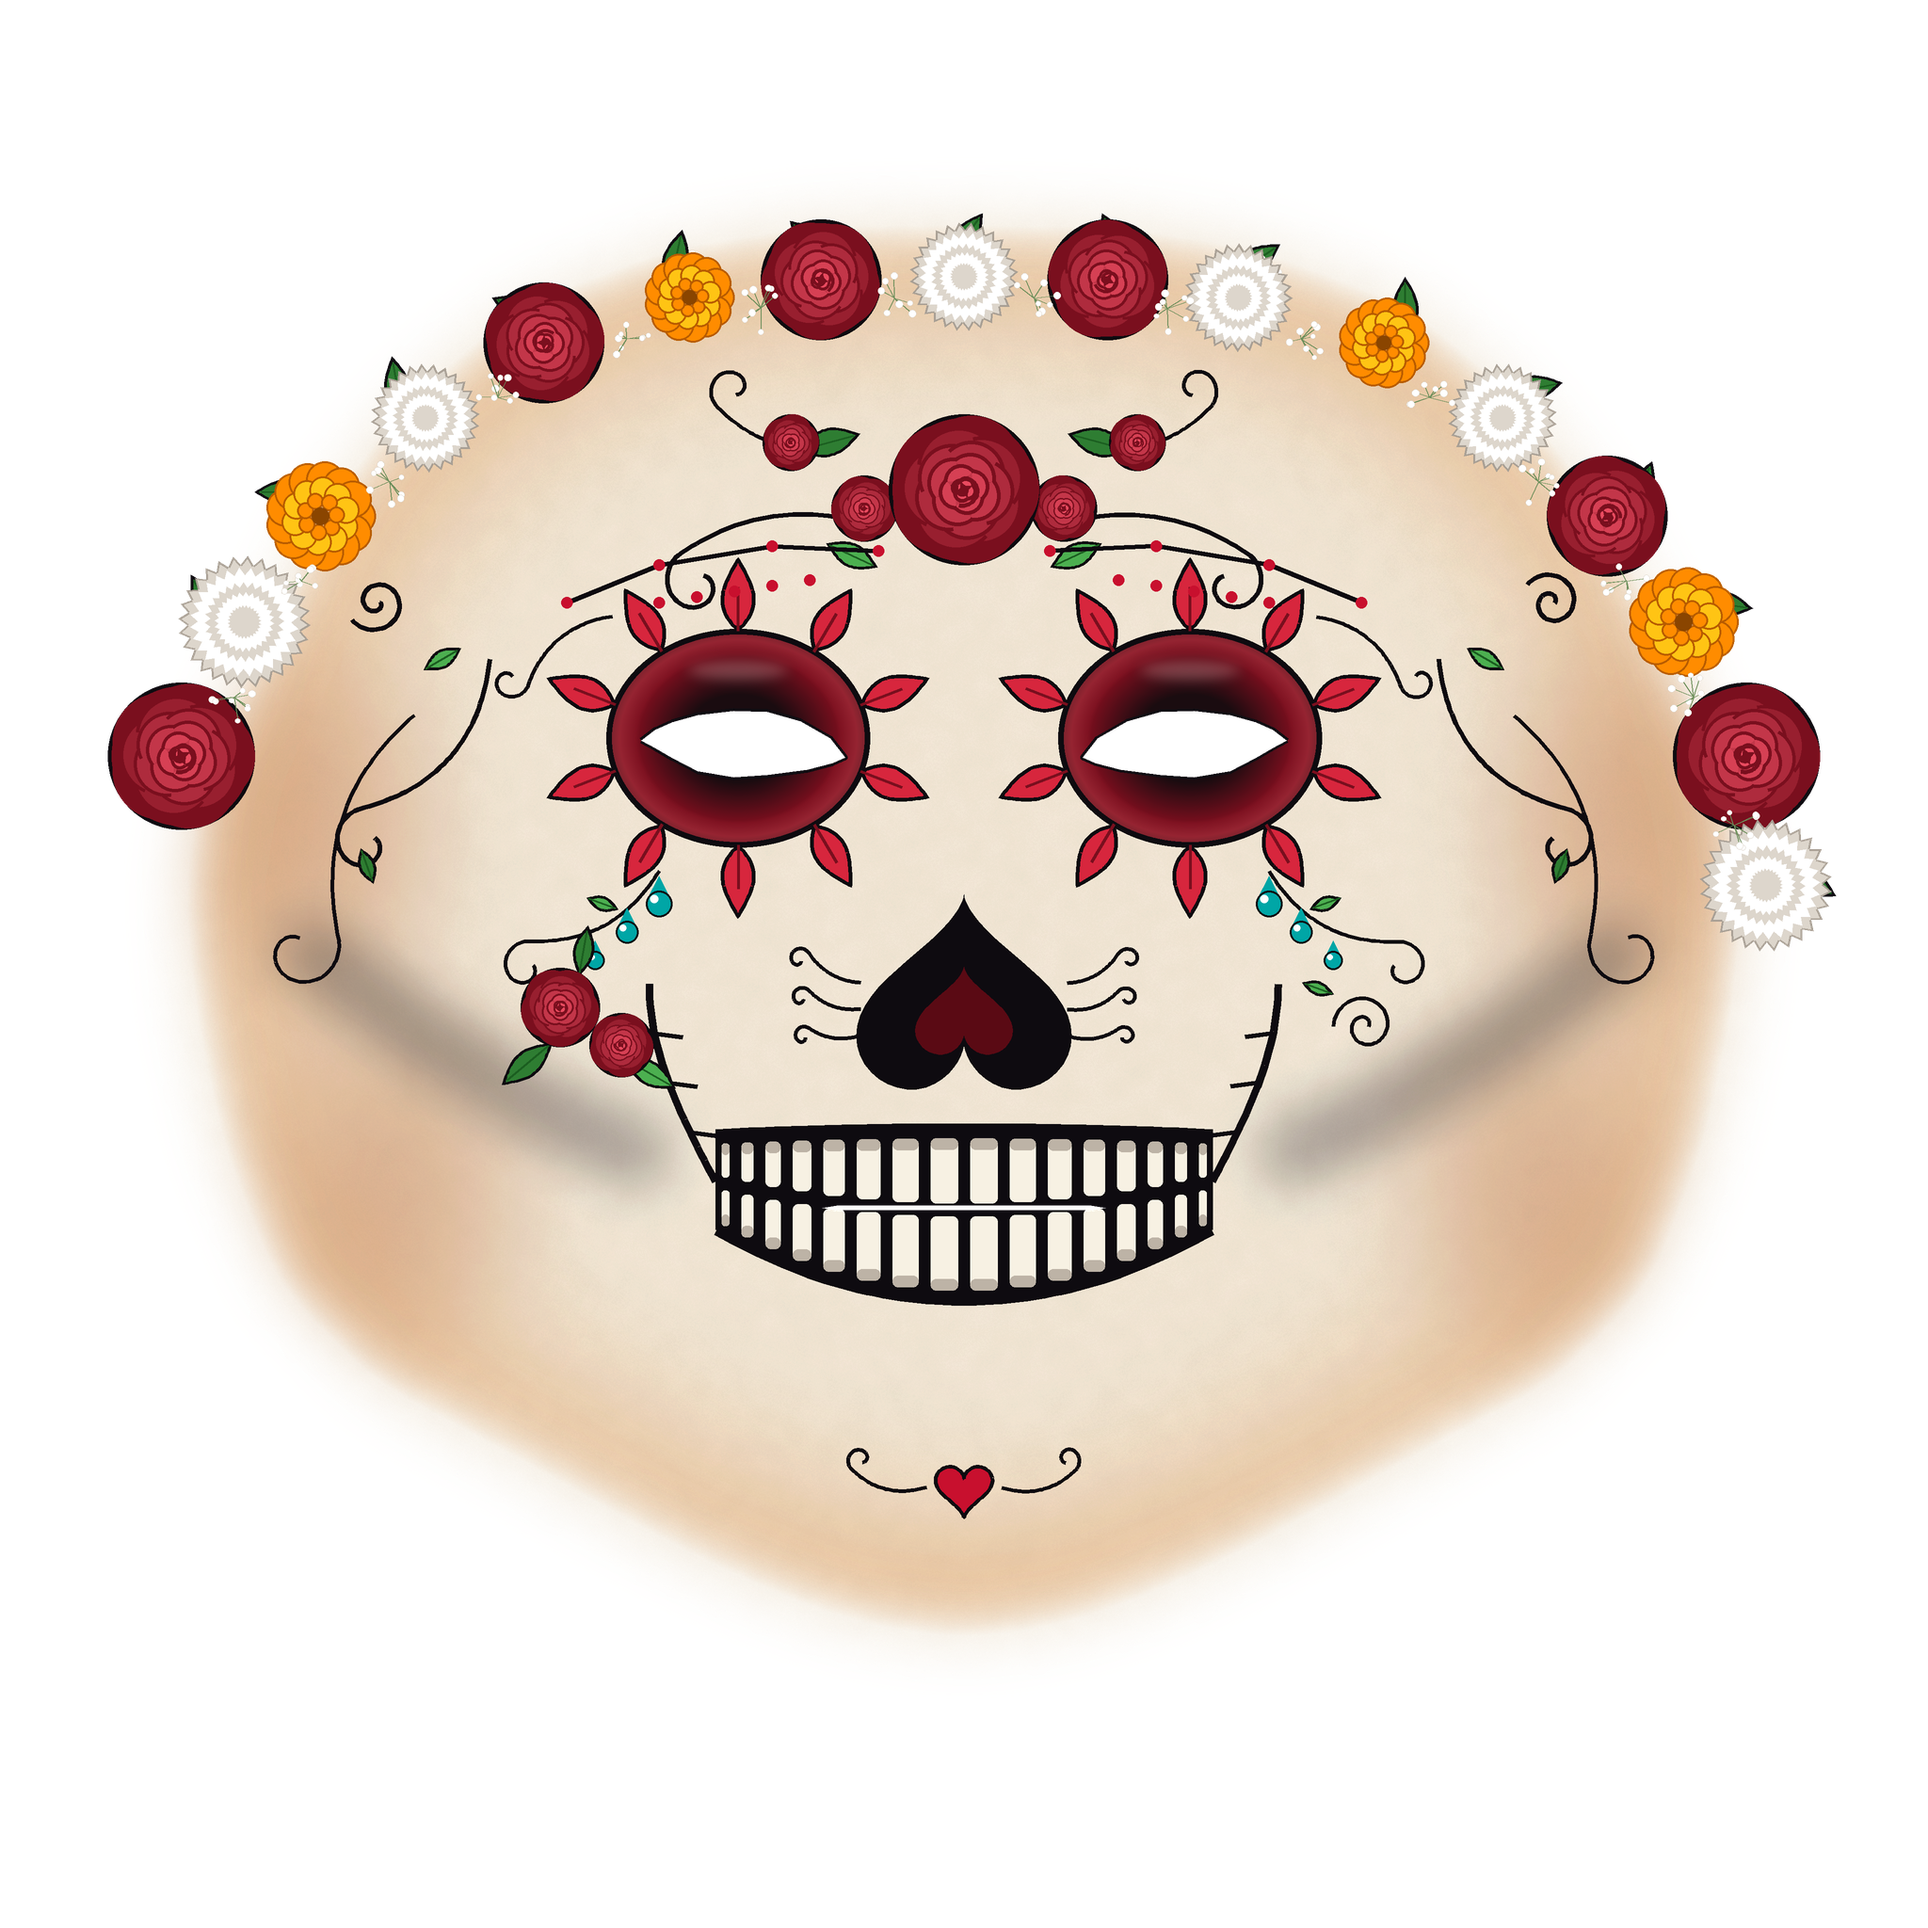
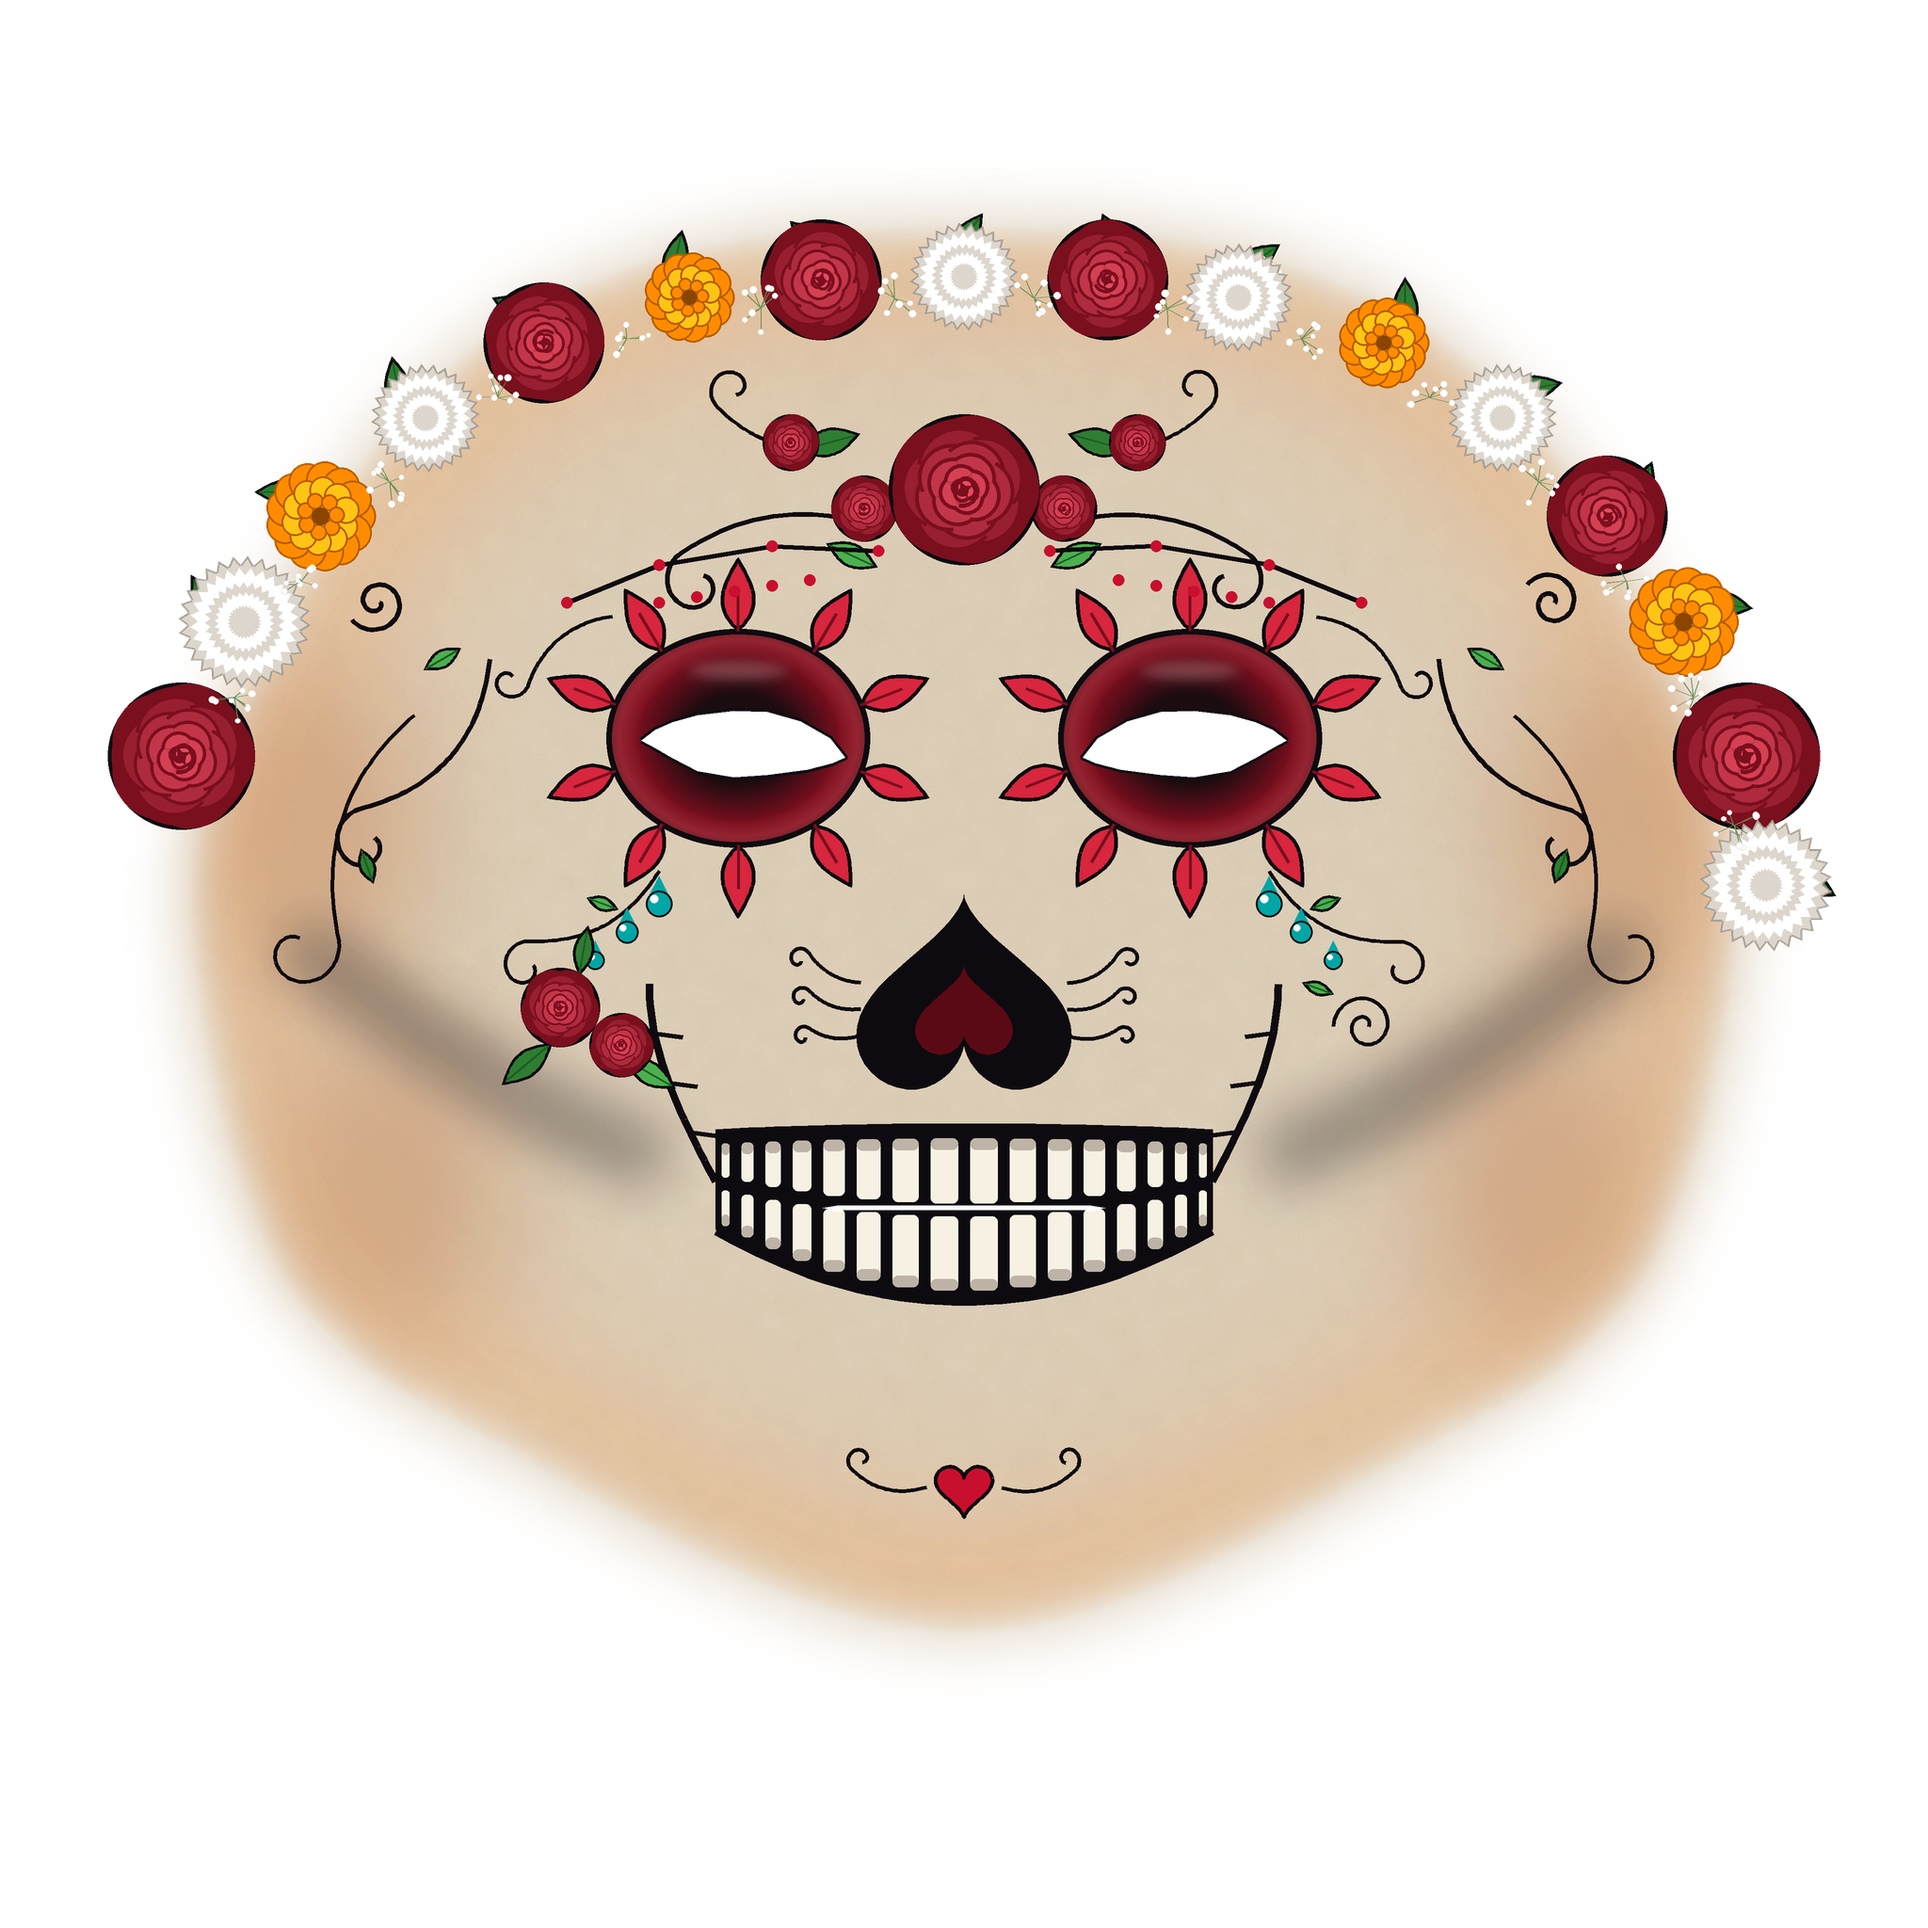
Base un poco más oscura en ambas máscaras

Changed region(s): [[0.2188, 0.1875, 0.7812, 0.7812]]

diff --git a/tools/generar_texturas_catrines.py b/tools/generar_texturas_catrines.py
@@ -566,7 +566,7 @@ def catrin():
     frente, nariz de corazón rojo con puntitos, dientes grandes y mejillas
     oscuras con filigrana roja y verde. Sin flores."""
     l = Lienzo()
-    base(l, hexa("EDE6DA"), 0.8, opacidad=0.93)
+    base(l, hexa("D4C8B6"), 0.8, opacidad=0.93)
     mejillas_hundidas(l, 0.35)
     cuencas_catrin(l)
     frente_catrin(l)
@@ -727,7 +727,7 @@ def barbilla_catrin(l):
 
 def catrina():
     l = Lienzo()
-    base(l, hexa("F3E9D8"), 1.0)
+    base(l, hexa("DCCDB6"), 1.0)
     mejillas_hundidas(l)
     filigrana_comun(l)
     cuencas(l, festonear=False)
